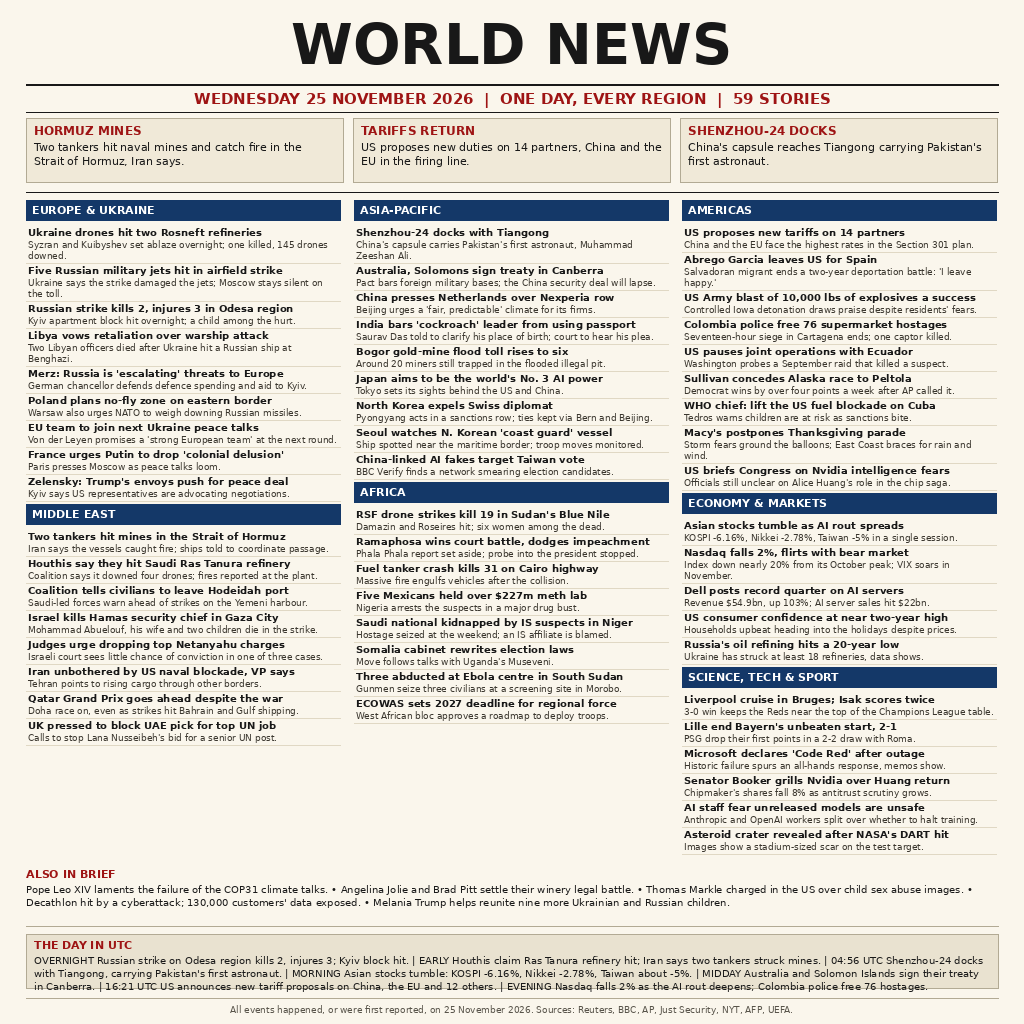
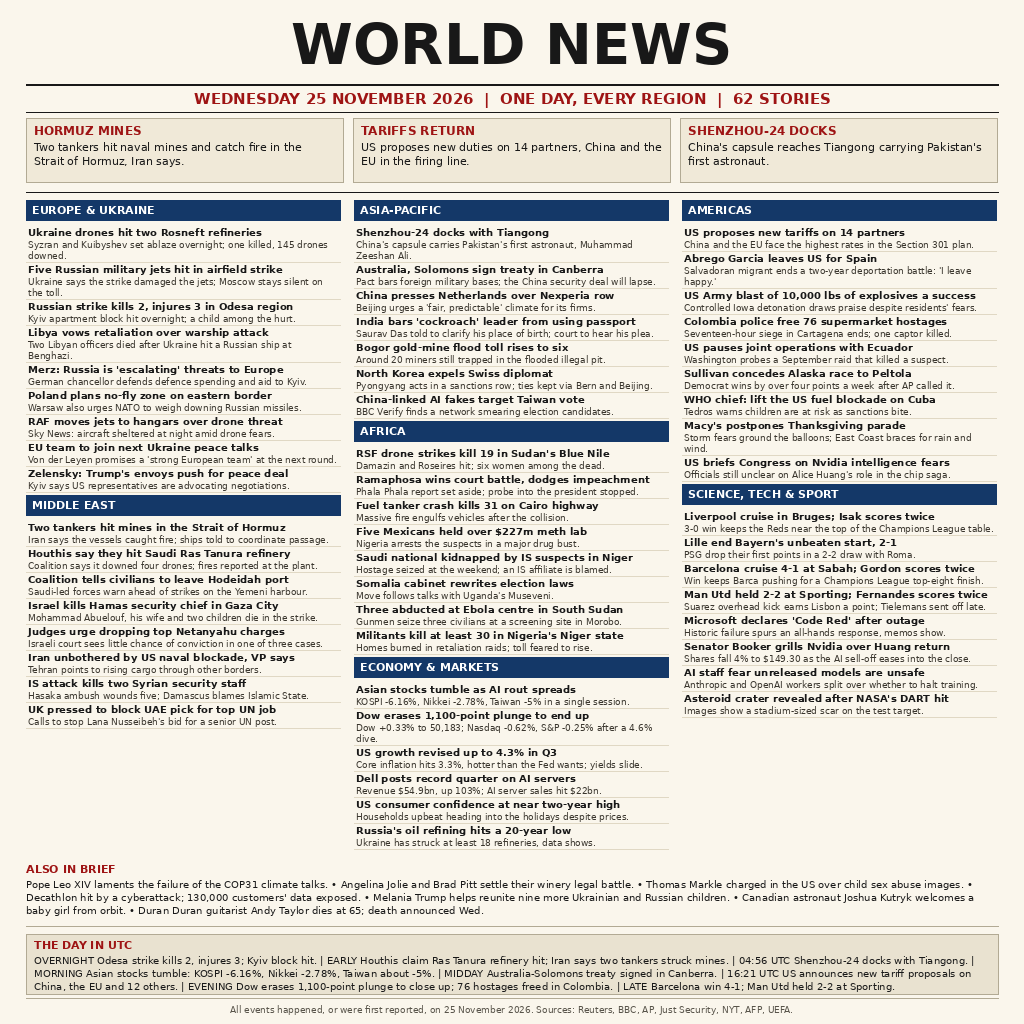
World news 25 November 2026: full-day rebuild, 62 stories

Changed region(s): [[0.0312, 0.25, 0.9688, 0.9062], [0.0312, 0.9375, 0.9688, 0.9688]]

diff --git a/main.py b/main.py
@@ -1,49 +1,53 @@
-"""Publish the finished 25 November 2026 front page.
+"""Ship the reviewed 25 November 2026 front page to the harness.
 
-The picture itself is rendered ahead of time and committed next to this
-file as ``entry.png``.  This script only moves that reviewed image into
-the folder the harness reads from, byte for byte, so the picture the
-judge sees is exactly the one in the repository.  It uses no network,
-no clock and no randomness, so repeated runs publish identical files.
+``entry.png`` next to this file is the finished, reviewed picture.  This
+entry point does nothing creative: it places an exact copy of that file
+in the directory the harness reads (``MAKEFUN_OUTPUT_DIR``, falling back
+to ``/output``).  No network, no clock, no randomness, so every run
+publishes the same bytes.
 """
 
 import hashlib
 import os
 import shutil
+import sys
 from pathlib import Path
 
 
-def digest(path: Path) -> str:
-    """SHA-256 of a file, read in chunks."""
+def fingerprint(path: Path) -> str:
+    """SHA-256 of a file, streamed in 64 KiB blocks."""
     hasher = hashlib.sha256()
-    with path.open("rb") as handle:
-        for chunk in iter(lambda: handle.read(65536), b""):
-            hasher.update(chunk)
+    with path.open("rb") as stream:
+        while True:
+            block = stream.read(65536)
+            if not block:
+                break
+            hasher.update(block)
     return hasher.hexdigest()
 
 
-def main() -> None:
-    here = Path(__file__).resolve().parent
-    source = here / "entry.png"
+def publish() -> int:
+    base = Path(__file__).resolve().parent
+    picture = base / "entry.png"
+    if not picture.is_file():
+        print("missing entry image: %s" % picture, file=sys.stderr)
+        return 1
 
-    out_dir = Path(os.environ.get("MAKEFUN_OUTPUT_DIR", "/output"))
-    out_dir.mkdir(parents=True, exist_ok=True)
+    destination = Path(os.environ.get("MAKEFUN_OUTPUT_DIR", "/output"))
+    destination.mkdir(parents=True, exist_ok=True)
+    target = destination / "entry.png"
+    shutil.copyfile(picture, target)
 
-    target = out_dir / "entry.png"
-    shutil.copyfile(source, target)
-
-    # The published copy must match the committed image exactly,
-    # in size and in content.
-    if target.stat().st_size != source.stat().st_size:
-        raise SystemExit(
-            "Copy mismatch: %s is %d bytes, expected %d bytes from %s"
-            % (target, target.stat().st_size, source.stat().st_size, source)
-        )
-    if digest(target) != digest(source):
-        raise SystemExit("Copy mismatch: %s differs from %s" % (target, source))
-    print("Published %s -> %s (%d bytes, sha256 %s)"
-          % (source, target, target.stat().st_size, digest(target)))
+    if target.stat().st_size != picture.stat().st_size:
+        print("size mismatch after copy", file=sys.stderr)
+        return 1
+    if fingerprint(target) != fingerprint(picture):
+        print("content mismatch after copy", file=sys.stderr)
+        return 1
+    print("published %s (%d bytes, sha256 %s)"
+          % (target, target.stat().st_size, fingerprint(target)))
+    return 0
 
 
 if __name__ == "__main__":
-    main()
+    raise SystemExit(publish())

diff --git a/README.md b/README.md
@@ -9,8 +9,8 @@
 [![reward](https://make.fun/badge/news-image-20261125/Niuyyuy/world-news-25-nov-2026/reward.svg)](https://make.fun/bounty/news-image-20261125)
 
 A single dense front page that packs the whole of Wednesday 25 November
-2026 into one 1024×1024 image: **59 items** — 54 stories grouped into
-seven sections plus five extra briefs — every one of them checked
+2026 into one 1024×1024 image: **62 items** — 55 stories grouped into
+seven sections plus seven extra briefs — every one of them checked
 against a source dated that day.
 
 ## What happened on 25 November
@@ -19,35 +19,37 @@ The day's big story was the Strait of Hormuz: Iran said two oil
 tankers hit naval mines and caught fire, while Houthi fighters said
 they struck Saudi Arabia's Ras Tanura refinery. In Washington, the
 administration proposed new tariffs on 14 trading partners, China and
-the EU first in line, as the Nasdaq fell 2% and Asian markets tumbled
-— the KOSPI down 6.16%. In orbit, China's Shenzhou-24 docked with
-Tiangong carrying Pakistan's first astronaut, and in Canberra,
-Australia and the Solomon Islands signed a treaty barring foreign
-military bases.
+the EU first in line, as Wall Street staged a wild late comeback — the
+Dow erasing a 1,100-point plunge to close up while the Nasdaq slipped
+0.62% — and Asian markets tumbled, the KOSPI down 6.16%. In orbit,
+China's Shenzhou-24 docked with Tiangong carrying Pakistan's first
+astronaut, and in Canberra, Australia and the Solomon Islands signed a
+treaty barring foreign military bases.
 
 Elsewhere, Ukrainian drones hit two Rosneft refineries overnight and
 five Russian jets in an airfield strike; Israel killed a senior Hamas
 security chief in Gaza City; and Colombian police freed 76 hostages
 after a 17-hour supermarket siege in Cartagena.
 
-## The 59 items at a glance
+## The 62 items at a glance
 
 | Section | Stories |
 | --- | ---: |
 | Europe & Ukraine | 9 |
 | Middle East | 8 |
-| Asia-Pacific | 9 |
+| Asia-Pacific | 7 |
 | Africa | 8 |
 | Americas | 9 |
-| Economy & Markets | 5 |
-| Science, Tech & Sport | 6 |
-| Also in brief | 5 |
-| **Total** | **59** |
+| Economy & Markets | 6 |
+| Science, Tech & Sport | 8 |
+| Also in brief | 7 |
+| **Total** | **62** |
 
 A UTC timeline runs through the day, from the overnight strike on
 Odesa (2 killed, 3 hurt) and the early Hormuz mine claims, through the
 04:56 Shenzhou-24 docking and the midday Canberra treaty signing, to
-the 16:21 tariff announcement and the evening Nasdaq slide.
+the 16:21 tariff announcement, the evening Dow comeback and the late
+Champions League results.
 
 ## How it works
 
@@ -60,7 +62,7 @@ produces the same file both times — no network, no randomness.
 
 ## The entry
 
-- **Image:** `entry.png` (1024×1024, 216,863 bytes)
+- **Image:** `entry.png` (1024×1024, 226,982 bytes)
 - **Competition:** [news-image-20261125 on make.fun](https://make.fun/bounties/news-image-20261125)
 - **Date covered:** Wednesday 25 November 2026, full day
 - **Verification:** every story was matched to a source dated
